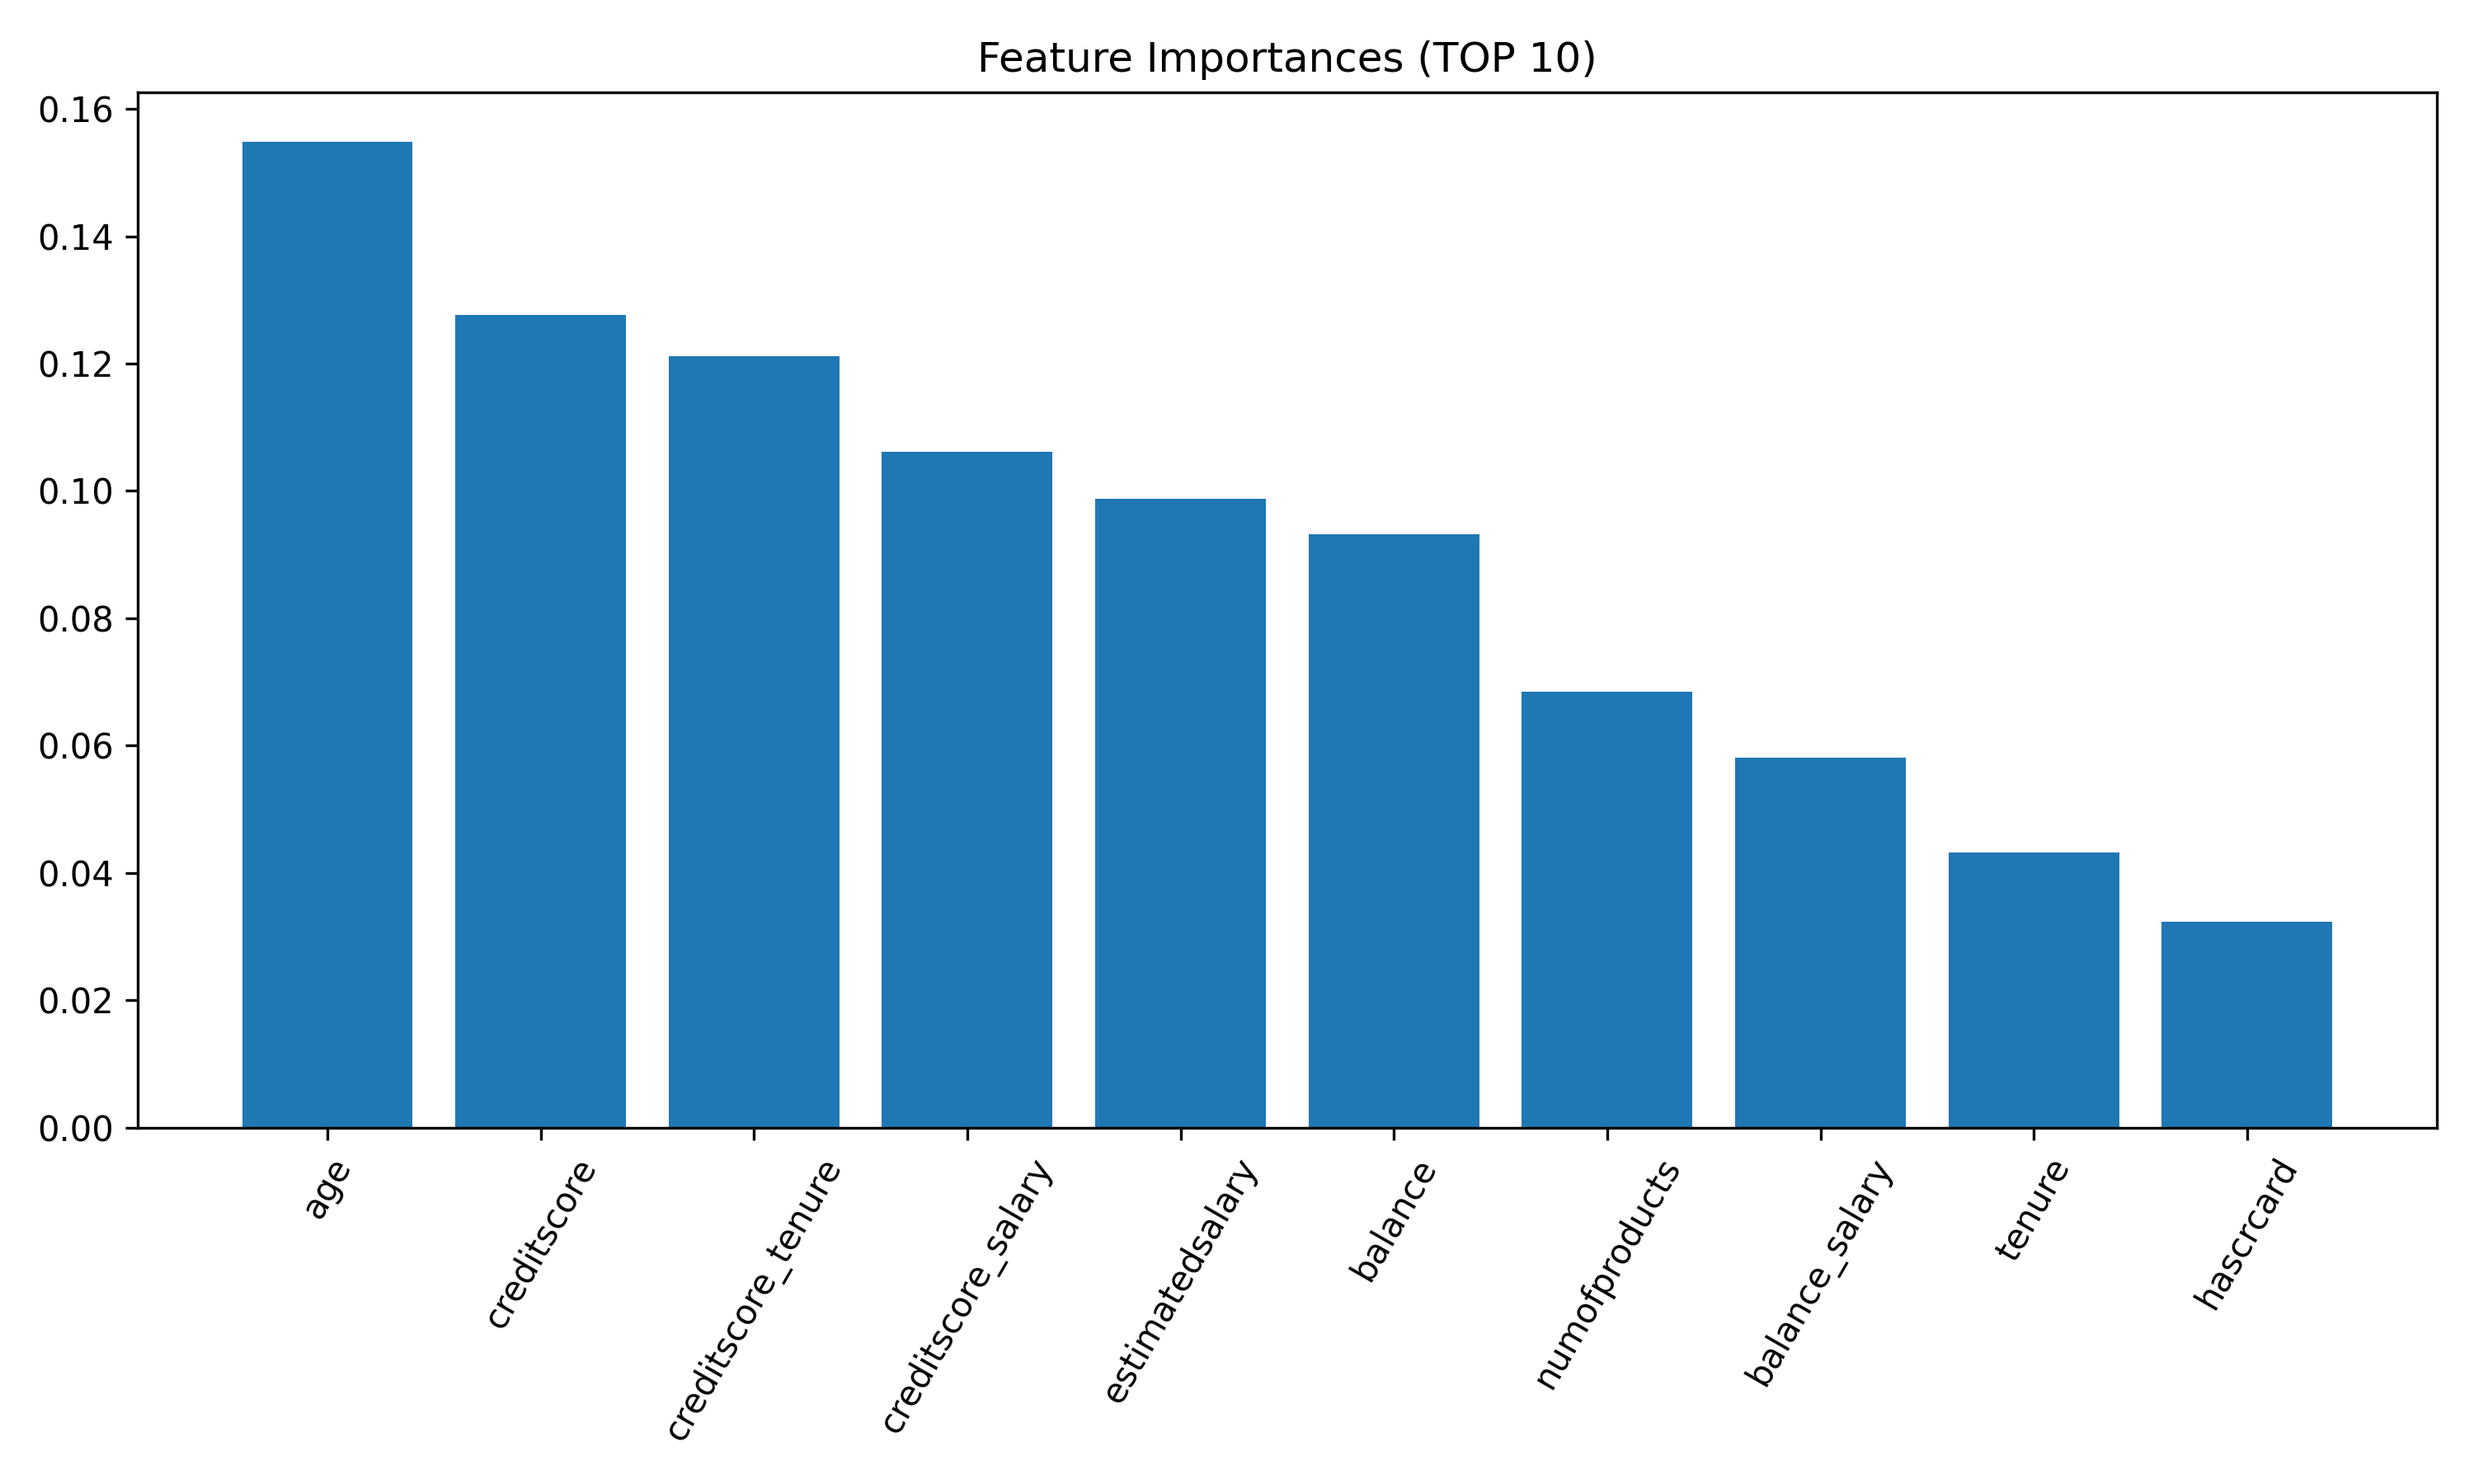
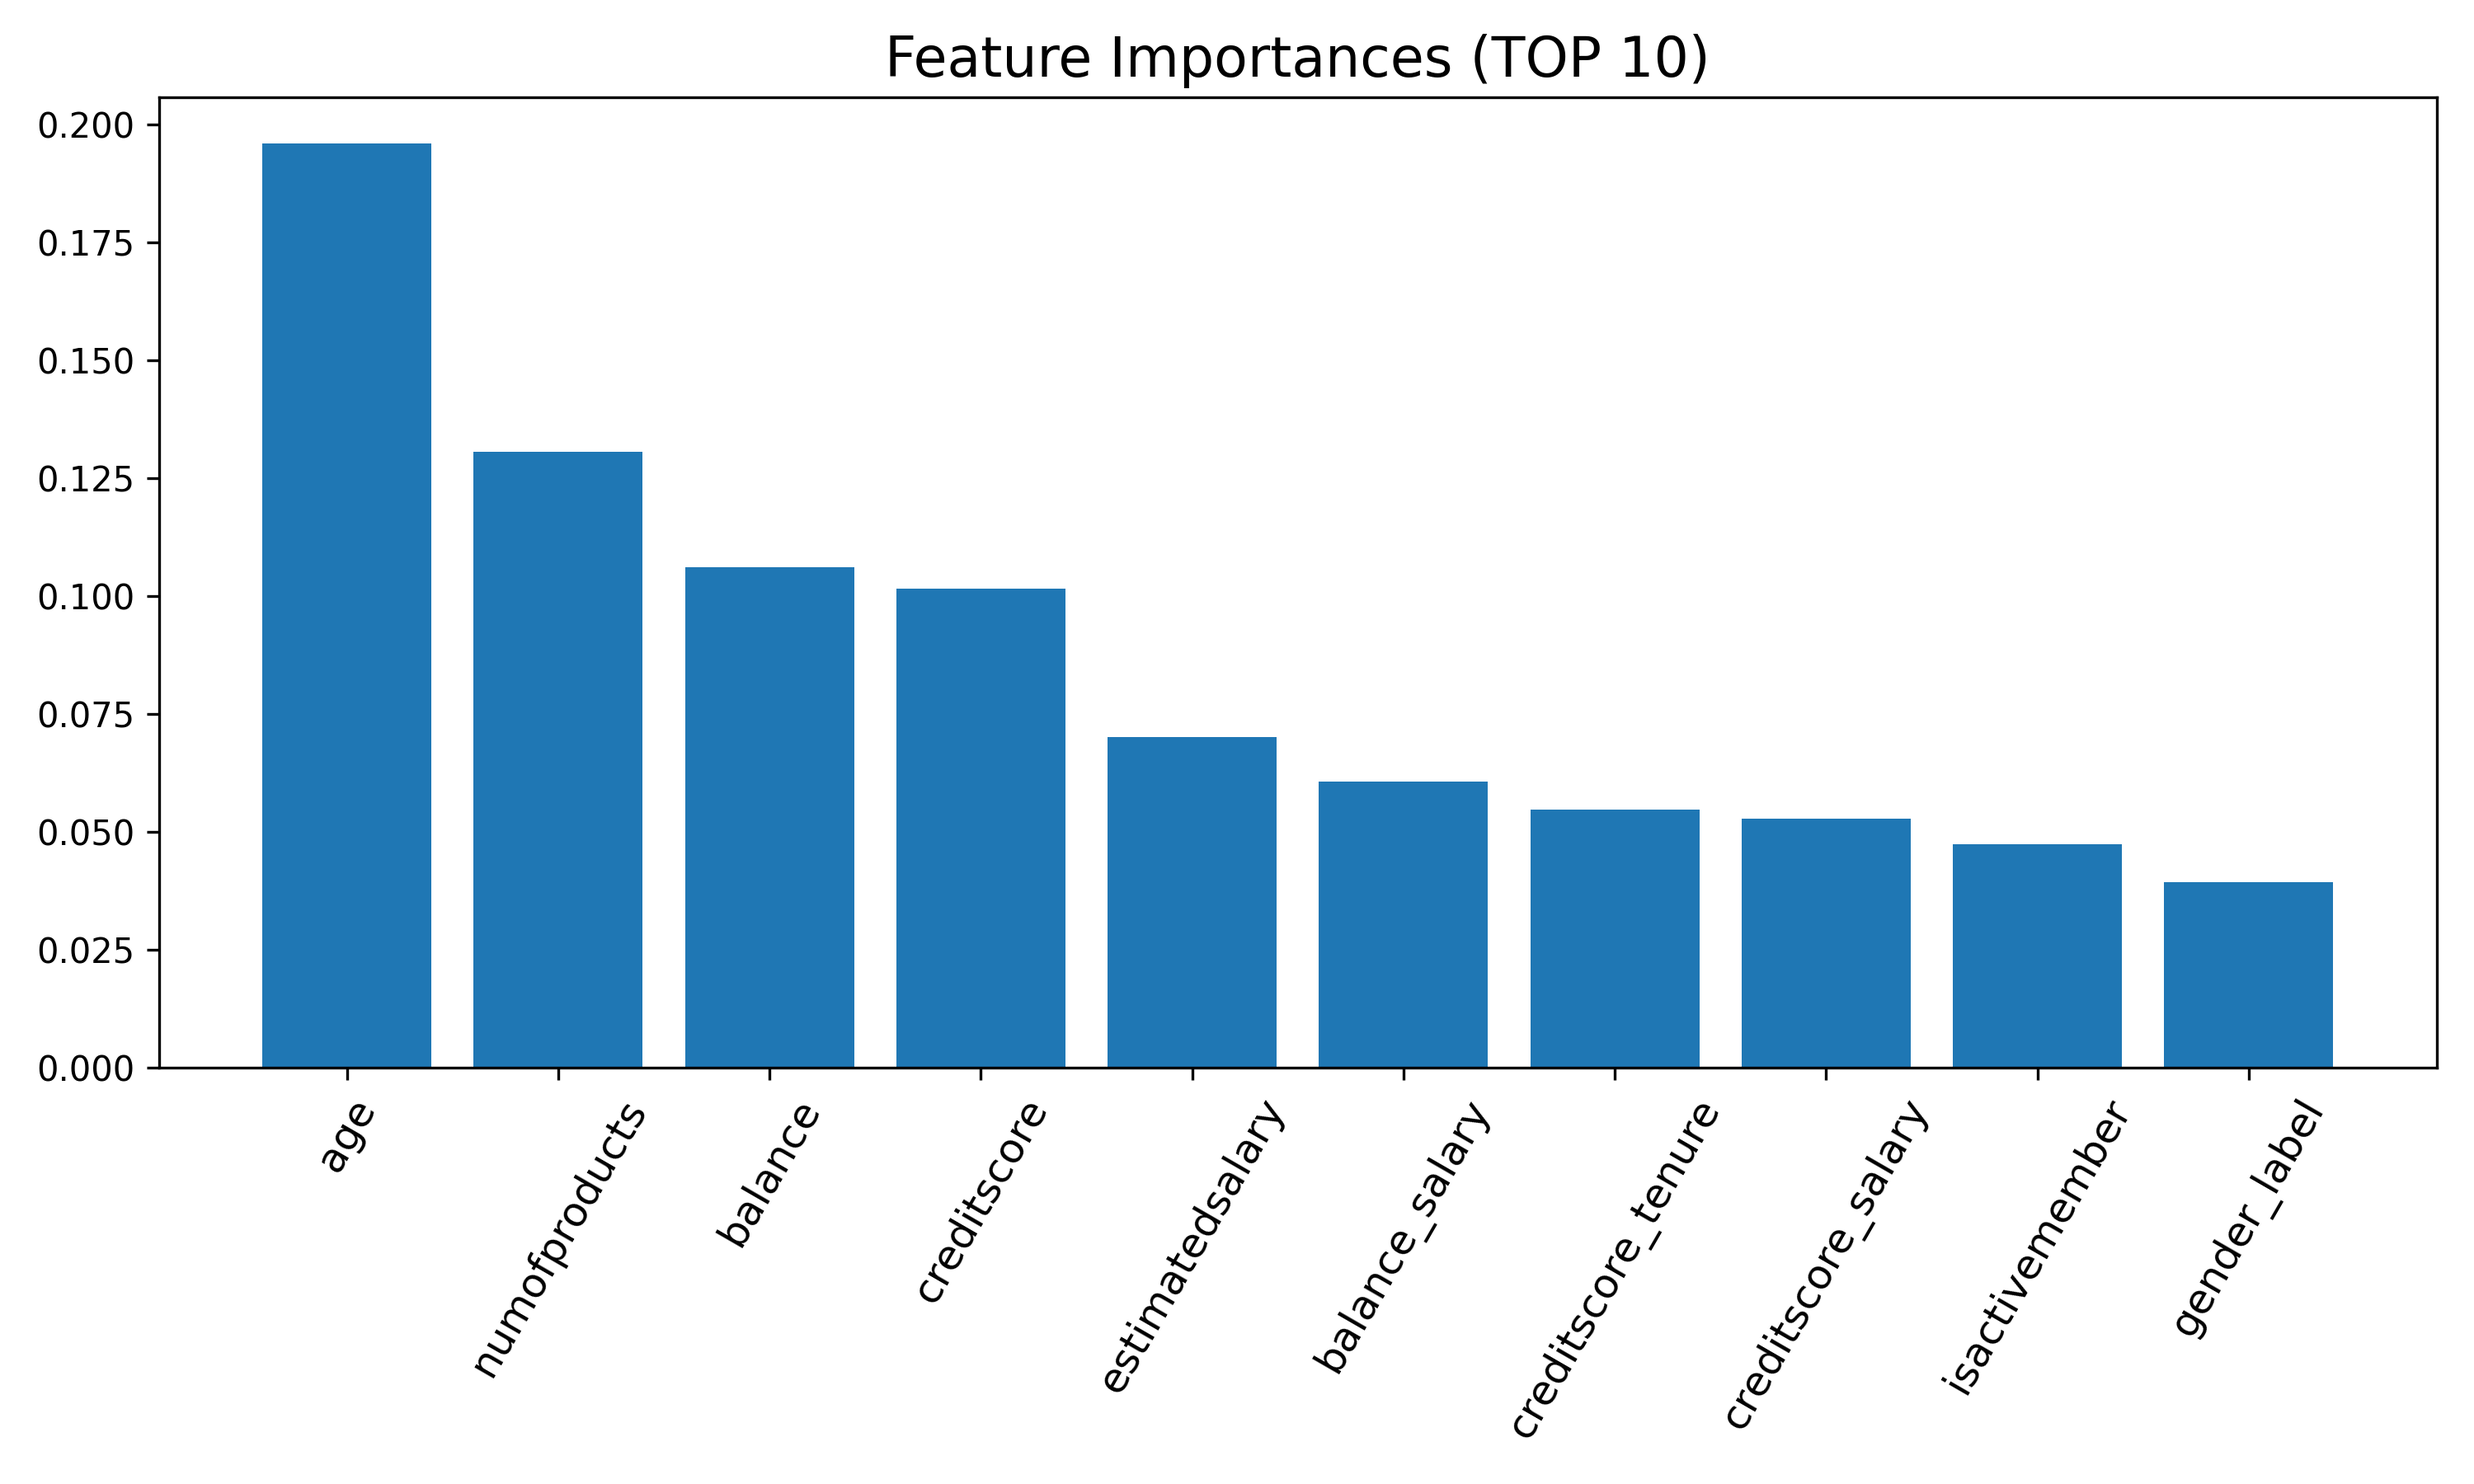
temp

diff --git a/my-project-frontend/src/views/IndexView.vue b/my-project-frontend/src/views/IndexView.vue
@@ -41,7 +41,7 @@
             </ul>
           </article>
             <div class="actions">
-              <button  @click="sshcommand('/home/niit/bin/everyday_update.sh today > /home/niit/bin/new_everyday.log')">立刻开始全新的可视化！</button>
+              <button  @click="sshcommand('/home/niit/bin/everyday_update.sh today > /home/niit/bin/new_everyday_update.log')">立刻开始全新的可视化！</button>
             </div>
         </section>
         <div class="image-slider">
@@ -127,7 +127,7 @@
         <h1>模型训练</h1>
       </header>
       <div class="button">
-        <button style="font-size: 20px;" @click="downloadMFile()">开始训练</button>
+        <button style="font-size: 20px;" @click="sshcommand('/home/niit/bin/model_training.sh > /home/niit/bin/model_training.log')">开始训练</button>
       </div>
       <div class="table-container" :key="componentKey1"><table style="width: 100%;">
           <thead>
@@ -393,7 +393,7 @@ function handleUserFileUpload(event) {
   selectedUserFile.value = file;
 }
 
-// Wrap a new post method to add loading indicator and error handling
+// 包装函数
 function enhancedPost(url, formData, onSuccess) {
   const loadingInstance = ElLoading.service({
     lock: true,
@@ -412,6 +412,7 @@ function enhancedPost(url, formData, onSuccess) {
   }
 }
 
+// 执行命令
 function sshcommand(command) {
 
   const formData = new FormData();
@@ -425,13 +426,14 @@ function sshcommand(command) {
   });
 }
 
+
 // Upload file logic
 function uploadFile() {
   
   const formData = new FormData();
   formData.append('file', selectedFile.value);  // selectedFile.value is the file you got from <input type="file">
 
-  post('/api/files/upload', formData
+  post('/files/upload', formData
   , () => {
                 ElMessage.success('Upload successful')
             });
@@ -523,35 +525,35 @@ function go() {
   componentKey.value++;
 }
 
-// Fetches a file via GET request, processes its data for preview, and updates the UI with parsed results.
-function downloadMFile() {
-  const loadingInstance = ElLoading.service({
-          lock: true,
-          text: 'Processing, please wait...',
-          background: 'rgba(0, 0, 0, 0.7)'
-        });
-  get(`/api/ssh/train/fuck`, 
-    (data) => {
-        const lines = data.split('\n');
-        mpreviewData1 = lines.slice(0, Math.min(10, lines.length));
-        console.log(mpreviewData1)
-        mheaders = mpreviewData1[0].split(',').map(header => header.trim());
-        mprocessedData = mpreviewData1.slice(1, 2).map(line =>
-          line.split(',').map(value => value.trim())
-        );
-        componentKey1.value++;
-        componentKey2.value++;
-        componentKey3.value++;
-        loadingInstance.close();
-    }, 
-    undefined,  // No intermediate processing function defined here
-    (message) => {
-        ElMessage.warning(`File download failed: ${message}`);
-        coldTime.value = 0;  // This coldTime handling may not apply to the download logic, it should be adjusted or removed
-        loadingInstance.close();
-    });
-
-}
+// // Fetches a file via GET request, processes its data for preview, and updates the UI with parsed results.
+// function downloadMFile() {
+//   const loadingInstance = ElLoading.service({
+//           lock: true,
+//           text: 'Processing, please wait...',
+//           background: 'rgba(0, 0, 0, 0.7)'
+//         });
+//   get(`/api/ssh/train/fuck`,
+//     (data) => {
+//         const lines = data.split('\n');
+//         mpreviewData1 = lines.slice(0, Math.min(10, lines.length));
+//         console.log(mpreviewData1)
+//         mheaders = mpreviewData1[0].split(',').map(header => header.trim());
+//         mprocessedData = mpreviewData1.slice(1, 2).map(line =>
+//           line.split(',').map(value => value.trim())
+//         );
+//         componentKey1.value++;
+//         componentKey2.value++;
+//         componentKey3.value++;
+//         loadingInstance.close();
+//     },
+//     undefined,  // No intermediate processing function defined here
+//     (message) => {
+//         ElMessage.warning(`File download failed: ${message}`);
+//         coldTime.value = 0;  // This coldTime handling may not apply to the download logic, it should be adjusted or removed
+//         loadingInstance.close();
+//     });
+//
+// }
 
 function handleNavigation(Id) {
   scrollTo(Id);
@@ -614,7 +616,7 @@ const fetchData = async () => {
 
 // 每隔5秒从后端获取新数据
 onMounted(() => {
-  setInterval(fetchData, 3000);
+  setInterval(fetchData, 5000);
 });
 // endregion
 

diff --git a/my-project-backend/src/main/java/com/example/controller/SSHController.java b/my-project-backend/src/main/java/com/example/controller/SSHController.java
@@ -13,6 +13,7 @@ import org.springframework.security.core.context.SecurityContextHolder;
 import org.springframework.web.bind.annotation.*;
 import org.springframework.web.multipart.MultipartFile;
 
+import java.util.Arrays;
 import java.util.List;
 import java.util.function.Supplier;
 
@@ -25,15 +26,48 @@ public class SSHController {
     @Autowired
     private FileService fileService;
 
+//    @PostMapping("/command")
+//    public ResponseEntity<RestBean<String>> executeSSHCommand(@RequestParam("command") String command) {
+//        return ResponseEntity.ok(
+//                messageHandle(() -> {
+//                    sshService.sshcll(command);
+//                    return "执行成功";  // 返回成功的消息
+//                })
+//        );
+//    }
+
     @PostMapping("/command")
     public ResponseEntity<RestBean<String>> executeSSHCommand(@RequestParam("command") String command) {
         return ResponseEntity.ok(
                 messageHandle(() -> {
-                    sshService.sshcll(command);
-                    return "执行成功";  // 返回成功的消息
+                    if (command.equals("/home/niit/bin/everyday_update.sh today > /home/niit/bin/new_everyday_update.log")) {
+                        sshService.sshcll(command);  // 执行 everyday_update.sh
+                        return "执行成功";  // 返回成功的消息
+                    } else if (command.equals("/home/niit/bin/model_training.sh > /home/niit/bin/model_training.log")) {
+                        sshService.sshcll(command);  // 执行 model_training.sh
+                        // 添加文件下载逻辑
+                        List<String> fileNames = Arrays.asList("merged_evaluation.csv", "roc_curve.png", "feature_importances.png");
+                        String remoteDirectory = "/home/niit/";
+                        String localDirectory = "D:/Programming/Front-End-Modified/my-project-frontend/src/views/img";
+                        try {
+                            sshService.downloadFiles(fileNames, remoteDirectory, localDirectory);  // 执行文件下载操作
+                        } catch (JSchException e) {
+                            throw new RuntimeException(e);
+                        } catch (SftpException e) {
+                            throw new RuntimeException(e);
+                        }
+                        return "执行成功";  // 返回成功的消息
+                    } else if (command.equals("/home/niit/bin/prediction.sh > /home/niit/bin/prediction.log")) {
+                        // 处理情况 3
+                        sshService.sshcll(command);  // 执行 prediction.sh
+                        return "执行成功";  // 返回成功的消息
+                    } else {
+                        return "无效的命令";  // 如果 command 不匹配任何情况，返回错误消息
+                    }
                 })
         );
     }
+
 
 //    @GetMapping("/status/{filename:.+}")
 //    public ResponseEntity<RestBean<String>> executeSSHStatus(@PathVariable String filename) {
@@ -42,36 +76,24 @@ public class SSHController {
 //        );
 //    }
 
-    @GetMapping("/training")
-    public ResponseEntity<RestBean<String>> executeSSHPredict(@RequestParam("command") String command) {
-        return ResponseEntity.ok(
-                messageHandle(() -> {
-                    sshService.sshcll("model_training.sh");
-                    System.out.println("good....................................................................................................");
-                    List<String> fileNames = List.of("merged_evaluation.csv", "roc_curve.png", "feature_importances.png");
-                    String remoteDirectory = "/home/niit/bin";
-                    String localDirectory = "D:/Programming/Front-End-Modified/my-project-frontend/src/views/img";
-
-                    try {
-                        sshService.downloadFiles(fileNames, remoteDirectory, localDirectory);
-                    } catch (JSchException e) {
-                        throw new RuntimeException(e);
-                    } catch (SftpException e) {
-                        throw new RuntimeException(e);
-                    }
-                    return fileService.loadFileContent("merged_evaluation.csv");
-                })  // 返回文件内容
-        );
-    }
-
-    private <T> RestBean<T> messageHandle(Supplier<T> action) {
-        try {
-            T result = action.get();
-            return RestBean.success(result);  // 成功的响应
-        } catch (Exception e) {
-            return RestBean.failure(400, "Failed due to: " + e.getMessage());  // 错误的响应
-        }
-    }
+//    @GetMapping("/training")
+//    public ResponseEntity<RestBean<String>> executeTrainingImageDownload() {
+//        return ResponseEntity.ok(
+//                messageHandle(() -> {
+//                    List<String> fileNames = List.of("merged_evaluation.csv", "roc_curve.png", "feature_importances.png");
+//                    String remoteDirectory = "/home/niit/";
+//                    String localDirectory = "D:/Programming/Front-End-Modified/my-project-frontend/src/views/img";
+//                    try {
+//                        sshService.downloadFiles(fileNames, remoteDirectory, localDirectory);
+//                    } catch (JSchException e) {
+//                        throw new RuntimeException(e);
+//                    } catch (SftpException e) {
+//                        throw new RuntimeException(e);
+//                    }
+//                    return fileService.loadFileContent("merged_evaluation.csv");
+//                })
+//        );
+//    }
 
     @PostMapping("/upload")
     public ResponseEntity<String> handleFileUpload(@RequestParam("file") MultipartFile file) {
@@ -87,5 +109,19 @@ public class SSHController {
     private String getCurrentUserId() {
         Authentication authentication = SecurityContextHolder.getContext().getAuthentication();
         return authentication.getName(); // 获取用户名作为用户ID，您可以根据实际情况修改
+    }
+
+    private <T> RestBean<T> messageHandle(Supplier<T> action) {
+        try {
+            T result = action.get();
+            return RestBean.success(result);  // 成功的响应
+        } catch (Exception e) {
+            return RestBean.failure(400, "Failed due to: " + e.getMessage());  // 错误的响应
+        }
+    }
+
+    public void main(String[] args) {
+        // 程序入口点，当前没有实现任何功能
+        executeSSHCommand("/home/niit/bin/model_training.sh > /home/niit/bin/model_training.log");
     }
 }

diff --git a/my-project-backend/src/main/java/com/example/good/SSHCommandExecutor.java b/my-project-backend/src/main/java/com/example/good/SSHCommandExecutor.java
@@ -60,7 +60,7 @@ public class SSHCommandExecutor {
 //        String host = "niit01"; // 远程主机IP地址
 //        String user = "niit";   // SSH登录用户名
 //        String password = "123456"; // SSH登录密码
-//        String command = "echo hello";  // 要执行的CMD命令
+//        String command = "/home/niit/bin/model_training.sh > /home/niit/bin/model_training.log";  // 要执行的CMD命令
 //
 //        try {
 //            JSch jsch = new JSch();
